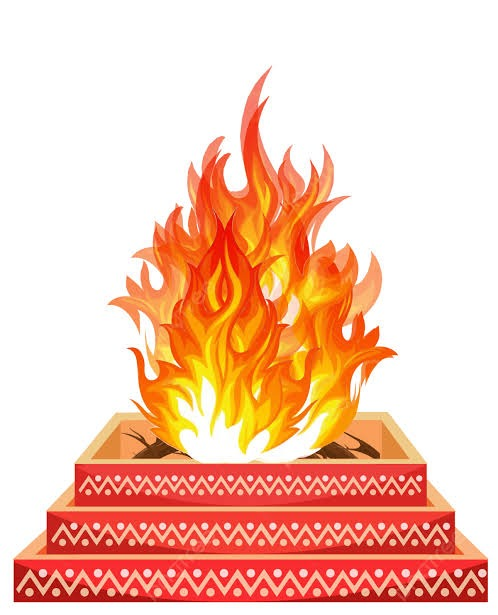
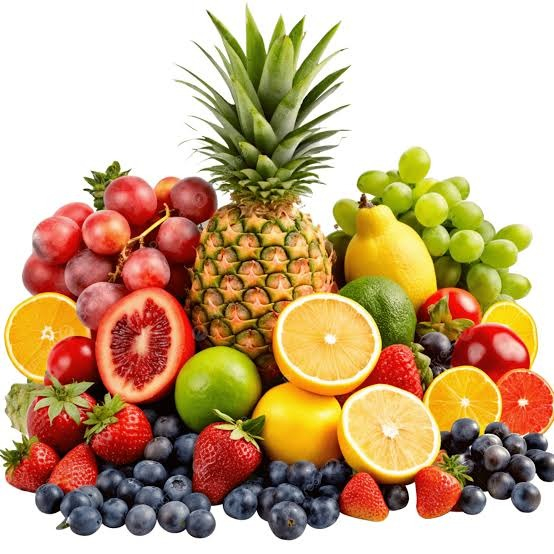
Optimize study play design: swap cross-connected assets for yajna, sapera, and fal, and implement premium FilterQuality.high configurations on all image widgets to prevent blurriness or pixelation

diff --git a/lib/features/study_play/presentation/screens/study_play_screen.dart b/lib/features/study_play/presentation/screens/study_play_screen.dart
@@ -654,7 +654,7 @@ class _StudyPlayScreenState extends State<StudyPlayScreen> with SingleTickerProv
     }
   }
 
-  Widget _buildEmojiImage(String emoji, {double size = 48, String word = "", String letter = ""}) {
+  Widget _buildEmojiImage(String emoji, {double size = 48, String word = "", String letter = "", FilterQuality filterQuality = FilterQuality.medium}) {
     final url = getEmojiUrl(emoji, word: word, letter: letter);
     if (url.isEmpty) {
       return Text(emoji, style: TextStyle(fontSize: size));
@@ -665,6 +665,7 @@ class _StudyPlayScreenState extends State<StudyPlayScreen> with SingleTickerProv
         width: size,
         height: size,
         fit: BoxFit.contain,
+        filterQuality: filterQuality,
         errorBuilder: (c, o, s) => Text(emoji, style: TextStyle(fontSize: size)),
       );
     }
@@ -673,6 +674,7 @@ class _StudyPlayScreenState extends State<StudyPlayScreen> with SingleTickerProv
       width: size,
       height: size,
       fit: BoxFit.contain,
+      filterQuality: filterQuality,
       errorBuilder: (c, o, s) => Text(emoji, style: TextStyle(fontSize: size)),
     );
   }
@@ -760,7 +762,7 @@ class _StudyPlayScreenState extends State<StudyPlayScreen> with SingleTickerProv
                           minScale: 0.5,
                           maxScale: 4.0,
                           child: Center(
-                            child: _buildEmojiImage(emoji, size: MediaQuery.of(context).size.width * 0.95, word: word, letter: letter),
+                            child: _buildEmojiImage(emoji, size: MediaQuery.of(context).size.width * 0.95, word: word, letter: letter, filterQuality: FilterQuality.high),
                           ),
                         ),
                         Positioned(
@@ -788,7 +790,7 @@ class _StudyPlayScreenState extends State<StudyPlayScreen> with SingleTickerProv
                       border: Border.all(color: Colors.grey.shade200, width: 2),
                       borderRadius: BorderRadius.circular(16),
                     ),
-                    child: _buildEmojiImage(emoji, size: 140, word: word, letter: letter),
+                    child: _buildEmojiImage(emoji, size: 140, word: word, letter: letter, filterQuality: FilterQuality.high),
                   ),
                   Positioned(
                     right: 8,
@@ -936,7 +938,7 @@ class _StudyPlayScreenState extends State<StudyPlayScreen> with SingleTickerProv
                         padding: const EdgeInsets.all(28),
                         child: Column(
                           children: [
-                            _buildEmojiImage(_rhymes[_activeRhymeIndex]["emoji"]!, size: 90),
+                            _buildEmojiImage(_rhymes[_activeRhymeIndex]["emoji"]!, size: 90, filterQuality: FilterQuality.high),
                             const SizedBox(height: 16),
                             Text(
                               _rhymes[_activeRhymeIndex]["title"]!,
@@ -1110,7 +1112,7 @@ class _StudyPlayScreenState extends State<StudyPlayScreen> with SingleTickerProv
                             ),
                           ),
                           const SizedBox(height: 6),
-                          _buildEmojiImage(item["emoji"]!, size: 54, word: item["word"]!),
+                          _buildEmojiImage(item["emoji"]!, size: 54, word: item["word"]!, filterQuality: FilterQuality.high),
                         ],
                       ),
                     );
@@ -1167,7 +1169,7 @@ class _StudyPlayScreenState extends State<StudyPlayScreen> with SingleTickerProv
                                       ),
                                     ),
                                     const SizedBox(height: 4),
-                                    _buildEmojiImage(item["emoji"]!, size: 40, word: item["word"]!, letter: item["letter"]!),
+                                    _buildEmojiImage(item["emoji"]!, size: 40, word: item["word"]!, letter: item["letter"]!, filterQuality: FilterQuality.high),
                                   ],
                                 ),
                               ),
@@ -1219,7 +1221,7 @@ class _StudyPlayScreenState extends State<StudyPlayScreen> with SingleTickerProv
                                       ),
                                     ),
                                     const SizedBox(height: 4),
-                                    _buildEmojiImage(item["emoji"]!, size: 40, word: item["word"]!, letter: item["letter"]!),
+                                    _buildEmojiImage(item["emoji"]!, size: 40, word: item["word"]!, letter: item["letter"]!, filterQuality: FilterQuality.high),
                                   ],
                                 ),
                               ),
@@ -1289,7 +1291,7 @@ class _StudyPlayScreenState extends State<StudyPlayScreen> with SingleTickerProv
                                         padding: const EdgeInsets.symmetric(vertical: 12, horizontal: 8),
                                         child: Column(
                                           children: [
-                                            _buildEmojiImage(item["emoji"]!, size: 40, word: item["word"]!),
+                                            _buildEmojiImage(item["emoji"]!, size: 40, word: item["word"]!, filterQuality: FilterQuality.high),
                                             const SizedBox(height: 6),
                                             Text(item["word"]!, textAlign: TextAlign.center, style: const TextStyle(fontSize: 13, fontWeight: FontWeight.bold, color: AppColors.primaryBlue)),
                                           ],
